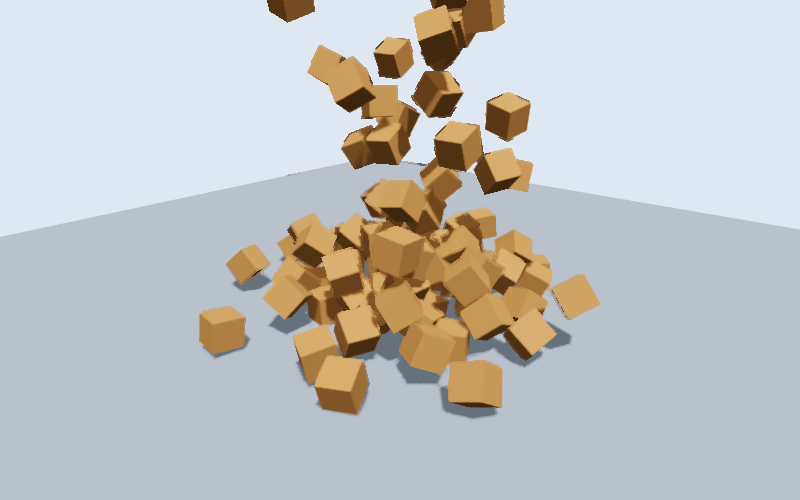
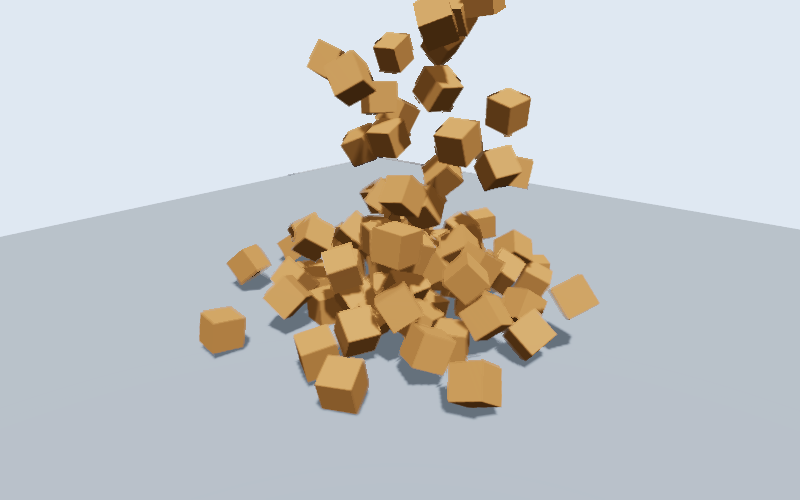
docs(physics): budgets by DEFAULT_PHYSICS_BUDGET, numbers in SDK.md, thumbnails mid-fall (#395)

diff --git a/site/examples/ten-thousand-bodies.html b/site/examples/ten-thousand-bodies.html
@@ -3,7 +3,7 @@
   <head>
     <meta charset="utf-8" />
     <title>Ten thousand bodies</title>
-    <meta name="thumbnail" content="2" />
+    <meta name="thumbnail" content="0.95" />
     <style>
       html,
       body {

diff --git a/README.md b/README.md
@@ -42,16 +42,16 @@ Parity means four things, and none of them is a pixel count:
 
 ## What it does
 
-| Area                   | Implemented scope                                                                                                                                                                                                                                                                                                                                                                                                                                    |
-| ---------------------- | ---------------------------------------------------------------------------------------------------------------------------------------------------------------------------------------------------------------------------------------------------------------------------------------------------------------------------------------------------------------------------------------------------------------------------------------------------- |
+| Area                   | Implemented scope                                                                                                                                                                                                                                                                                                                   |
+| ---------------------- | ----------------------------------------------------------------------------------------------------------------------------------------------------------------------------------------------------------------------------------------------------------------------------------------------------------------------------------- |
 | **Native compiler**    | glTF/GLB, FBX, OBJ, USD/USDZ, Alembic, `.blend`, Maya ASCII and Unity scenes and packages, with a dozen image formats, read by its own drivers (no external tool); verified source hashes; a cluster DAG that reaches a single root — clusters grouped, simplified and welded level by level, each carrying its screen error; a flat culling hierarchy; streaming bundles; a bounded worker pool; DAG warnings reported to the CLI and to the engine |
-| **Cache**              | SHA-addressed page, geometry-page and bundle objects; every persisted entry validated before reuse; `formatVersion` separate from `compilerVersion`, unknown formats rejected                                                                                                                                                                                                                                                                        |
-| **WebGPU page raster** | GPU frustum + `lodScore` cut in compute, conservative backface cones, two-phase Hi-Z occlusion, visibility-buffer encode through at most six non-indexed `drawIndirect` commands, deferred material shading, temporal antialiasing                                                                                                                                                                                                                   |
-| **Textures**           | virtual texturing: a bounded tile pool, per-tile feedback read back by rank, residency driven by what the frame sampled                                                                                                                                                                                                                                                                                                                              |
-| **Lighting**           | Cook-Torrance GGX, no fixed ambient term — ambient only comes from a declared `light.ambient`/`light.hemisphere`, and a surface no light reaches stays black; sun through cascaded shadow maps under a 1 ms budget; per-tile light rejection — the stochastic and screen-space stages are the roadmap                                                                                                                                                |
-| **Memory**             | fixed reservoirs for pages and tiles like the reference, adjustable in session without losing residency; no image cap; a `cpu-timing` diagnostic and per-step CPU profile                                                                                                                                                                                                                                                                            |
-| **Fallbacks**          | a world takes WebGPU pages by default when the machine grants a device, WebGL2 pages otherwise; the CPU cut stays the A/A oracle; a forced renderer the machine lacks is refused by name, never swapped                                                                                                                                                                                                                                              |
-| **Jobs**               | immutable progress snapshots, subscriptions, bounded cancellation, explicit failure semantics                                                                                                                                                                                                                                                                                                                                                        |
+| **Cache**              | SHA-addressed page, geometry-page and bundle objects; every persisted entry validated before reuse; `formatVersion` separate from `compilerVersion`, unknown formats rejected                                                                                                                                                       |
+| **WebGPU page raster** | GPU frustum + `lodScore` cut in compute, conservative backface cones, two-phase Hi-Z occlusion, visibility-buffer encode through at most six non-indexed `drawIndirect` commands, deferred material shading, temporal antialiasing                                                                                                  |
+| **Textures**           | virtual texturing: a bounded tile pool, per-tile feedback read back by rank, residency driven by what the frame sampled                                                                                                                                                                                                             |
+| **Lighting**           | Cook-Torrance GGX, no fixed ambient term — ambient only comes from a declared `light.ambient`/`light.hemisphere`, and a surface no light reaches stays black; sun through cascaded shadow maps under a 1 ms budget; per-tile light rejection — the stochastic and screen-space stages are the roadmap                                                                                                                                        |
+| **Memory**             | fixed reservoirs for pages and tiles like the reference, adjustable in session without losing residency; no image cap; a `cpu-timing` diagnostic and per-step CPU profile                                                                                                                                                           |
+| **Fallbacks**          | a world takes WebGPU pages by default when the machine grants a device, WebGL2 pages otherwise; the CPU cut stays the A/A oracle; a forced renderer the machine lacks is refused by name, never swapped |
+| **Jobs**               | immutable progress snapshots, subscriptions, bounded cancellation, explicit failure semantics                                                                                                                                                                                                                                       |
 
 ## Quick start
 
@@ -105,10 +105,10 @@ packages/asset-compiler-rust/target/release/trillion3d-compiler --jobs jobs.json
 Every consumer imports `trillion3d`. Conditional exports provide common maths and contracts in
 all environments, rendering APIs to browser bundlers, and native preparation APIs to Node.
 
-| Environment       | Available API                                                                                                                                                                               |
-| ----------------- | ------------------------------------------------------------------------------------------------------------------------------------------------------------------------------------------- |
-| Common and worker | Versioned contracts, maths, jobs, diagnostics and safety policy                                                                                                                             |
-| Node              | Common API plus native compiler process adapter and compilation jobs                                                                                                                        |
+| Environment       | Available API                                                                         |
+| ----------------- | ------------------------------------------------------------------------------------- |
+| Common and worker | Versioned contracts, maths, jobs, diagnostics and safety policy                       |
+| Node              | Common API plus native compiler process adapter and compilation jobs                  |
 | Browser bundler   | Common API plus `createWorld` and its families (`geometry`, `material`, `light`, `camera`, `object`, `page`, `budget`, `metric`, `diagnostic`, `capability`, `capture`, `pose`, `batch`, …) |
 
 An application owns the canvas, its resource URLs and controller disposal; the world owns its own
@@ -211,9 +211,8 @@ Open tasks are tracked as [GitHub issues](https://github.com/pasquelin/Trillion3
   cross-platform performance CI yet; WebAssembly serves the page decoder, three math kernels and
   the physics.
 - Physics ([docs/SDK.md](docs/SDK.md#physics)) steps Jolt on its thread pool when the page is
-  cross-origin isolated, on one worker elsewhere. In Chrome, 10,000 boxes landing at once still
-  cost the worker about 20 ms a step on eight threads, so the landing runs in slow motion; the
-  page keeps its pace and its share is about 3 ms a frame, not yet the 0.5 ms aimed at.
+  cross-origin isolated, on one worker elsewhere; what 10,000 boxes landing at once cost is
+  measured there.
 
 ## Licence
 

diff --git a/docs/SDK.md b/docs/SDK.md
@@ -857,16 +857,18 @@ world.scene.add(floor, crate);
 crate.physics.on('contact', ({ other, impulse }) => console.log(other?.name, impulse));
 ```
 
-- **Loading.** A world without physics fetches no byte of Jolt. The worker and
-  `joltPhysics.wasm` (1.27 MB) are fetched the first time physics is enabled; bodies set before
-  then are queued.
+- **Loading.** A world without physics fetches no byte of Jolt. The worker and its WebAssembly
+  module are fetched the first time physics is enabled; bodies set before then are queued.
 - **World.** `world.physics.enabled`, `gravity` (a live vector, or `'earth'`, `'moon'`, `'mars'`,
-  `'none'`), `paused`, `timeScale` (0.25 is slow motion), `stats` and `error`.
+  `'none'`), `paused`, `timeScale` (0.25 is slow motion, 0 stands still; a negative or infinite
+  scale throws `RangeError`), `stats` and `error`.
   `createWorld(canvas, { physics: { gravity, budget } })` sets them at creation.
 - **Bodies.** `mesh.physics = 'static' | 'dynamic' | 'kinematic'` or options `{ type, mass, shape,
 gravityScale, sensor, ccd, decorative, friction, restitution }`. The shape is read from the
   geometry: a box, sphere, capsule or cylinder is that exact primitive (scaled); any other mesh is
-  its triangles when static and its convex hull, computed in the worker, when it moves. A dynamic
+  its triangles when static and its convex hull, computed in the worker, when it moves; a dynamic
+  body declared `{ type: 'triangles' }` is refused (no volume, no mass), and a shape the worker
+  cannot build fails that body alone (`PHYSICS_FAILED`, the mesh named). A dynamic
   body must be a direct child of the scene (`PHYSICS_NESTED`). `position.set` on a dynamic body
   teleports it; on a kinematic one it drives it there over the next step, pushing what it meets.
 - **Mass and matter.** `mass` in kilograms, or the material's density times the shape's volume.
@@ -884,12 +886,15 @@ gravityScale, sensor, ccd, decorative, friction, restitution }`. The shape is re
   falling; the pose it has when it falls asleep is sent all the same. `decorative` bodies meet the
   static world only, are simulated only in range and in view, and leave the simulation once asleep:
   their mesh stays where it came to rest (set `physics` again to simulate it anew).
-- **Budgets.** `world.budget.physics`: `bodies` 16,384, `triangles` 2,000,000, `decorative` 1,024,
-  `memoryBytes` 128 MiB (a hard ceiling: the module's memory cannot grow past it), `threads` 8
-  (Jolt's thread pool, the worker's thread included, when the page is cross-origin isolated; never
-  more than the logical cores minus the page's own; one elsewhere), read when the
-  physics starts. A request past one is refused with `PHYSICS_BUDGET` on `world.physics.error`.
-  The soft-body budget arrives with soft bodies.
+- **Budgets.** `world.budget.physics`, read when the physics starts: bodies, static triangles,
+  decorative bodies, memory (a hard ceiling: the module's memory cannot grow past it), body pairs
+  and contacts per step, contact events per step, and threads (Jolt's thread pool, the worker's
+  included, when the page is cross-origin isolated; never more than the logical cores minus the
+  page's own; one elsewhere). The defaults are `DEFAULT_PHYSICS_BUDGET`. A request past one is
+  refused with `PHYSICS_BUDGET` on `world.physics.error`; a step that finds more pairs or contacts
+  than its budget says so the same way, and an `enter` past the events budget is counted in
+  `stats.droppedEvents` (its `leave` is then never sent). The soft-body budget arrives with soft
+  bodies.
 - **Cost.** The `physics` CPU stage is the page's share (`stats.mainMs`); the worker's step is
   `stats.stepMs`, on its own clock: the two are never added.
 
@@ -903,8 +908,9 @@ gravityScale, sensor, ccd, decorative, friction, restitution }`. The shape is re
   by the declared-light rule above.
 - A lost device is reported, not recovered: full device-loss recovery and cross-API fallback are not
   implemented.
-- Physics: 10,000 boxes landing at once cost the worker about 20 ms a step in Chrome on eight
-  threads (8–10 ms for the same module in Node), so the landing runs in slow motion; the page draws
-  on at its own pace, and its share is about 3 ms a frame that draws 10,000 new poses, above the
-  0.5 ms aimed at. Characters, joints, vehicles, soft bodies, cooked colliders and
+- Physics, `ten-thousand-bodies` (10,000 boxes landing at once, headless Chrome, cross-origin
+  isolated, eight threads): the worker's step is 15–17 ms p50 (8–10 ms for the same module in
+  Node), so the landing runs in slow motion; the page draws on at its own pace, and its `physics`
+  stage is 0.45–0.50 ms p50, 0.6–0.7 ms p95 a frame. The renderer's own work for 10,000 moved
+  instances is measured apart (#432). Characters, joints, vehicles, soft bodies, cooked colliders and
   loaded models as bodies arrive with the next physics issues (#396–#400).

diff --git a/docs/ENGINE.md b/docs/ENGINE.md
@@ -390,16 +390,29 @@ writes a pose buffer and an event buffer. No emscripten glue is kept; the engine
 
 - **Worker.** `physics/physicsWorker.ts` steps at a fixed 60 Hz, at most four catch-up steps a
   tick (beyond, time is dropped: slow motion, never a spiral). Two result buffers go back and forth
-  as transferables; when the page holds both, a tick's results wait for the next. With every body
-  asleep and no command queued, the worker stops ticking.
+  as transferables and a tick writes straight into a free one (`tickResults.ts`); when the page
+  holds both, its results wait in a staging copy. It steps only while one more step's events fit,
+  so no event is cut. With every body asleep and no command queued, the worker stops ticking.
 - **Layouts.** `sdk-core/src/physics/layout.ts` (`PHYSICS_LAYOUT_VERSION`) holds the command,
   pose and event word layouts the module mirrors; the page and the worker check the protocol.
+  Every record names its body by an engine id, the slot and the slot's generation (moved on at
+  each add and removal), so a late record of a body that left is never read as the one in its
+  place, on the page or in the module's pair map.
+- **Contacts and failures.** The module counts sub-shape contacts per pair: an `enter` is sent on
+  the first, a `leave` on the last, and only for a pair whose `enter` was sent; a `leave` the
+  event buffer cannot take waits for the next step, and a removed body's pairs are closed as it
+  leaves. A shape Jolt cannot build fails its body alone (the page retires it and names it);
+  `PhysicsSystem::Update`'s errors (body pairs, contact constraints, manifold cache) are sent as
+  `PHYSICS_BUDGET`, their capacities being `budget.physics.bodyPairs` and `contactConstraints`.
 - **Page.** `physics/session.ts` reconciles bodies with the scene once per frame that changed it,
   draws each moving body between its last drawn pose and the tick's pose (`poses.ts`), sends the
   view, and posts the frame's commands in one message. A tick is drawn over the interval at which
   ticks arrive, not the time it simulates, and a late one is extrapolated from the linear and
   angular velocities of its records, one interval at most: a slow worker shows slow motion, never
-  a held frame. The poses are written flat into each node and its transform tree, the angles
+  a held frame. Receive and draw are typed-array loops: a body's node keeps its position,
+  quaternion and scale in the placer's flat arrays (`ObservedComponents._share`), its velocity and
+  sleep are read from the session's arrays when asked (`PhysicsState`), each frame lerps from the
+  pose drawn toward the tick's, and the pose is written into the transform tree, the angles
   derived when read (`placer.ts`); each body's world matrix is composed straight into the row of
   the instance buffer the renderer draws it from (`SceneLink.seat`), and the world hears the
   written span of each buffer once (`SceneLink.placed`), so no per-node world update runs. A body
@@ -410,7 +423,8 @@ writes a pose buffer and an event buffer. No emscripten glue is kept; the engine
   when they change. In the module, a dynamic body beyond the range is deactivated with its
   velocities kept; a body out of the cone or hidden sends no pose until it is seen again.
 - **Budgets.** Bodies, static triangles and decorative bodies are counted on the page; memory is
-  enforced by the module's memory maximum.
+  enforced by the module's memory maximum; body pairs, contact constraints and events size the
+  module's own buffers.
 - **Timing.** The `physics` stage of `WEBGPU_STAGES` / `WEBGL_STAGES` (host step `physicsMs`) is the
   page's share; the worker's per-step time is reported apart, in `world.physics.stats.stepMs`
   (the module's step alone, the clock `scripts/bench-physics.ts` reads in Node).
